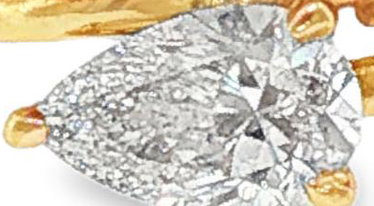
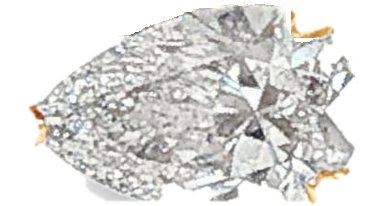
Pear: real outline in the sprite's alpha (whole stone, prongs kept), hangs under the wire end like her photo; 4-wrap base lifted 70px

diff --git a/index.html b/index.html
@@ -1091,11 +1091,11 @@ const PHOTO_STONES = {
 const PLAIN = {1:'img/studio/plain-1.jpg', 2:'img/studio/plain-2.jpg', 3:'img/studio/plain-3.jpg', 4:'img/studio/plain-4.jpg', 5:'img/studio/plain-5.jpg'};
 /* where her stones sit on each plain ring (mapped from her photo) */
 const PLAIN_STONES = {
-  1:{wraps:[{x:560,y:395,r:40,m:10}], bottom:{x:412,y:646,w:330,h:190,m:3,shape:'pear',turn:true}},
-  2:{wraps:[{x:378,y:402,r:40,m:0},{x:190,y:505,r:40,m:0}], bottom:{x:412,y:645,w:330,h:190,m:3,shape:'pear',turn:true}},
-  3:{wraps:[{x:378,y:405,r:40,m:0},{x:190,y:452,r:40,m:0},{x:625,y:535,r:40,m:6}], bottom:{x:412,y:645,w:330,h:190,m:3,shape:'pear',turn:true}},
-  4:{wraps:[{x:378,y:275,r:40,m:0},{x:190,y:315,r:40,m:0},{x:535,y:455,r:40,m:6},{x:283,y:635,r:40,m:7}], bottom:{x:412,y:760,w:330,h:190,m:3,shape:'pear',turn:true}},
-  5:{wraps:[{x:440,y:315,r:40,m:0},{x:190,y:400,r:40,m:0},{x:535,y:488,r:40,m:6},{x:283,y:565,r:40,m:7},{x:655,y:605,r:40,m:10}], bottom:{x:412,y:725,w:330,h:190,m:3,shape:'pear',turn:true}},
+  1:{wraps:[{x:560,y:395,r:40,m:10}], bottom:{x:412,y:746,w:330,h:190,m:3,shape:'pear',turn:true}},
+  2:{wraps:[{x:378,y:402,r:40,m:0},{x:190,y:505,r:40,m:0}], bottom:{x:412,y:746,w:330,h:190,m:3,shape:'pear',turn:true}},
+  3:{wraps:[{x:378,y:405,r:40,m:0},{x:190,y:452,r:40,m:0},{x:625,y:535,r:40,m:6}], bottom:{x:412,y:746,w:330,h:190,m:3,shape:'pear',turn:true}},
+  4:{wraps:[{x:378,y:205,r:40,m:0},{x:190,y:245,r:40,m:0},{x:535,y:385,r:40,m:6},{x:283,y:565,r:40,m:7}], bottom:{x:412,y:790,w:330,h:190,m:3,shape:'pear',turn:true}},
+  5:{wraps:[{x:440,y:315,r:40,m:0},{x:190,y:400,r:40,m:0},{x:535,y:488,r:40,m:6},{x:283,y:565,r:40,m:7},{x:655,y:605,r:40,m:10}], bottom:{x:412,y:771,w:330,h:190,m:3,shape:'pear',turn:true}},
 };   // n -> plain ring photo, once it exists
 const SRC = {src:'img/studio/gold-5.jpg', n:5, stone:{x:535, y:355, r:40, m:6}};   // her ruby, with its prongs
 // her other real stones on the same photo; a dark birthstone is cut from a dark stone, a light one from a light stone
@@ -1524,7 +1524,7 @@ function paintRound(ctx, base, k, s, mi, scale, dest){
    cut on the bottom wire; bw/bh = the stone's body in sprite pixels. */
 const SPRITES = {
   // bw/bh = the stone's body in sprite pixels; norm brings each cut to the same 0.5 ct footprint (her pear = 1)
-  'pear-h':   {src:'img/studio/bottom/pear-h.png',    bw:316, bh:180, norm:1, pow:3},
+  'pear-h':   {src:'img/studio/bottom/pear-h.png',    bw:316, bh:195, norm:0.88, pow:3, masked:true},   // alpha = the stone's real outline
   'oval-h':   {src:'img/studio/bottom/oval-h.png',    bw:340, bh:230, norm:0.90, pow:3},
   // cuts not yet photographed on her ring: earlier studio cut-outs, scaled up to her pear's footprint
   'emerald-h':{src:'img/studio/bottom/emerald-h.png', bw:140, bh:104, norm:1.9},
@@ -1564,20 +1564,29 @@ function paintSprite(ctx, sp, cx, cy, scale, mi){
     const d = px.getImageData(0, 0, pw, ph).data;
     for (let y = 0; y < ph; y++) for (let x = 0; x < pw; x++){
       const i = (y*pw + x)*4, j = y*pw + x;
+      if (sp.masked){                                    // the sprite carries its own outline in its alpha
+        if (d[i+3] < 128) continue;
+        if (isGoldPx(d[i], d[i+1], d[i+2])) gold[j] = 1; else stone[j] = 1;
+        continue;
+      }
       const v = Math.pow(Math.abs(x - pw/2) / ax, P) + Math.pow(Math.abs(y - ph/2) / ay, P);
       if (v >= 1) continue;
       if (isGoldPx(d[i], d[i+1], d[i+2])) gold[j] = 1;
       else if (inBody(x, y) || !isBackdrop(d[i], d[i+1], d[i+2])) stone[j] = 1;   // the body is all stone, sparkle included
     }
-    // the stone's real outline: close its white sparkle holes, then trim the thin shadow fringe
-    const closed = erode(dilate(stone, pw, ph, 5), pw, ph, 5), trimmed = erode(closed, pw, ph, 3);
-    for (let j = 0; j < pw*ph; j++){ if (trimmed[j]) { stone[j] = 1; if (gold[j]) wasGold[j] = 1; gold[j] = 0; } else stone[j] = 0; }
+    if (!sp.masked){
+      // the stone's real outline: close its white sparkle holes, then trim the thin shadow fringe
+      const closed = erode(dilate(stone, pw, ph, 5), pw, ph, 5), trimmed = erode(closed, pw, ph, 3);
+      for (let j = 0; j < pw*ph; j++){ if (trimmed[j]) { stone[j] = 1; if (gold[j]) wasGold[j] = 1; gold[j] = 0; } else stone[j] = 0; }
+    }
   }
   const near = dilate(stone, pw, ph, 12);           // metal this close to the stone is a prong
   if (mi !== 3) recolor(px, pw, ph, (x, y, r, g, b) => {
     // the stone itself: every pixel inside its outline that is neither metal nor backdrop
+    if (!stone[y*pw + x]) return 0;
+    if (sp.masked) return 1;
     const e = ((x - pw/2) / (sp.bw*0.56))**2 + ((y - ph/2) / (sp.bh*0.56))**2;
-    if (e >= 1.1 || !stone[y*pw + x]) return 0;
+    if (e >= 1.1) return 0;
     return 1 - smooth(0.9, 1.1, e);
   }, mi);
   // keep the stone and the prongs holding it; backdrop, and any wire that was under it in the photo, goes
@@ -1587,10 +1596,10 @@ function paintSprite(ctx, sp, cx, cy, scale, mi){
   for (let y = 0; y < ph; y++) for (let x = 0; x < pw; x++){
     const j = y*pw + x, i = j*4;
     const v = Math.pow(Math.abs(x - pw/2) / ax, P) + Math.pow(Math.abs(y - ph/2) / ay, P);
-    let a = 1 - smooth(0.85, 1.0, v);
+    let a = sp.masked ? d[i+3] / 255 : 1 - smooth(0.85, 1.0, v);
     if (gold[j] ? !near[j] : !stone[j]) a = 0;      // no wire, no photo shadow, no backdrop travels with the stone
     // of the metal round the stone only the prong beads stay: pixels brighter than the wire they land on
-    if (a > 0 && gold[j]) a *= smooth(6, 30, lumOf(d[i], d[i+1], d[i+2]) - lumAt(DST, cx - pw*s/2 + x*s, cy - ph*s/2 + y*s));
+    if (a > 0 && gold[j] && !sp.masked) a *= smooth(6, 30, lumOf(d[i], d[i+1], d[i+2]) - lumAt(DST, cx - pw*s/2 + x*s, cy - ph*s/2 + y*s));
     A[j] = a;
   }
   A = blur3(blur3(A, pw, ph), pw, ph);             // a soft edge, like a photographed stone
@@ -1601,7 +1610,7 @@ function paintSprite(ctx, sp, cx, cy, scale, mi){
     for (let j = 0; j < pw*ph; j++){ const i = j*4; if (d0[i+3] > 0 && (wasGold[j] || (!stone[j] && isWarmPx(d0[i], d0[i+1], d0[i+2])))) tintGoldPixel(d0, i, metal); }
     px.putImageData(id0, 0, 0);
   }
-  seatShadow(ctx, cx, cy, sp.bw*s*0.55, sp.bh*s*0.5);
+  if (!sp.masked) seatShadow(ctx, cx, cy, sp.bw*s*0.55, sp.bh*s*0.5);   // a masked stone hangs off the wire end, as in her photo
   ctx.drawImage(p, cx - pw*s/2, cy - ph*s/2, pw*s, ph*s);
 }
 /* ---------- swatches cut from the photo itself, so the pickers look like the real thing ---------- */
